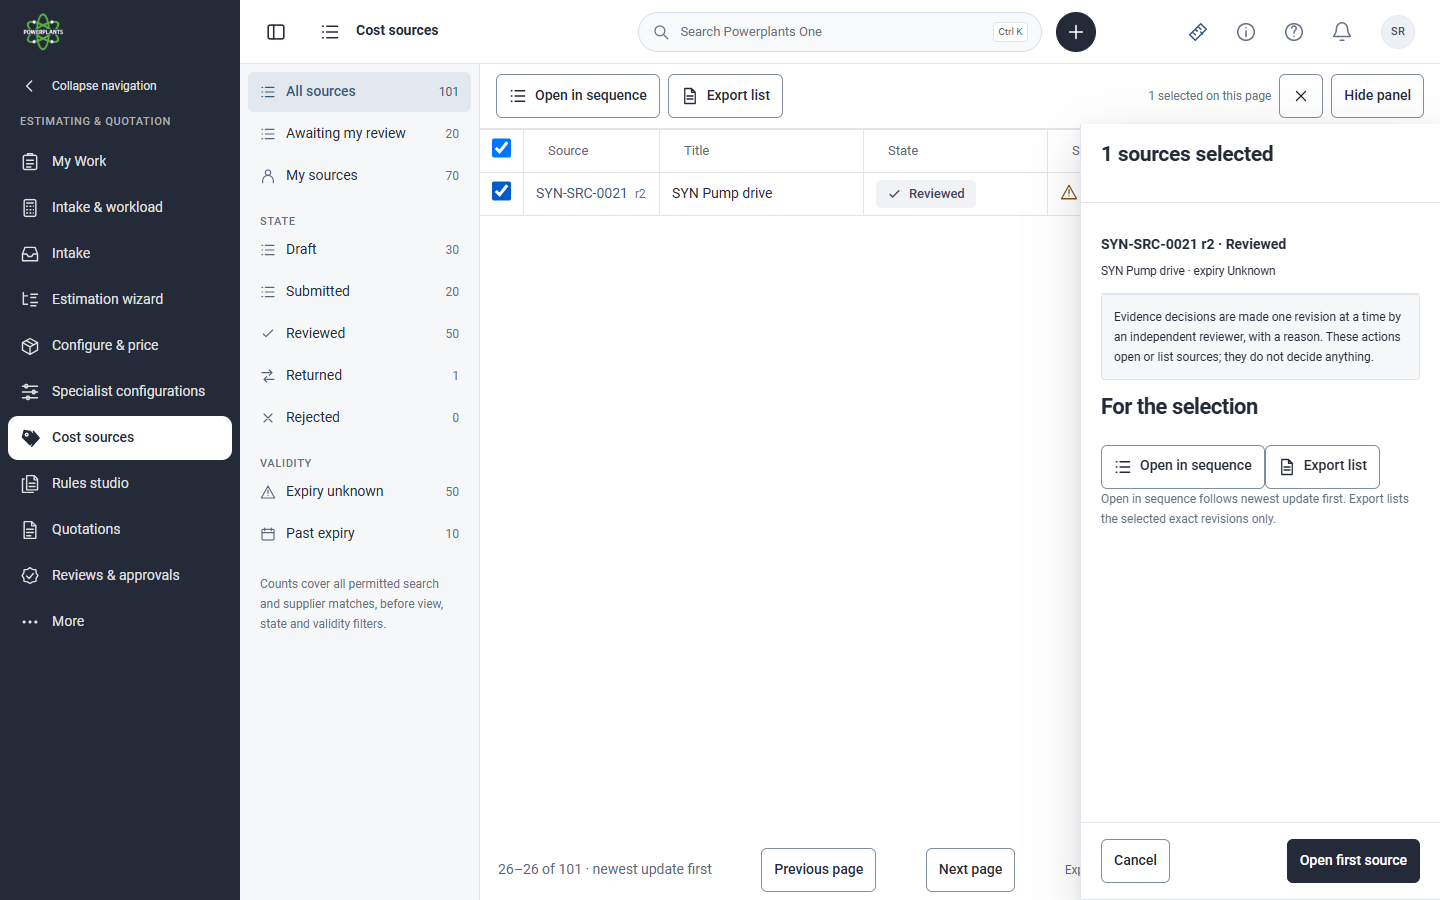
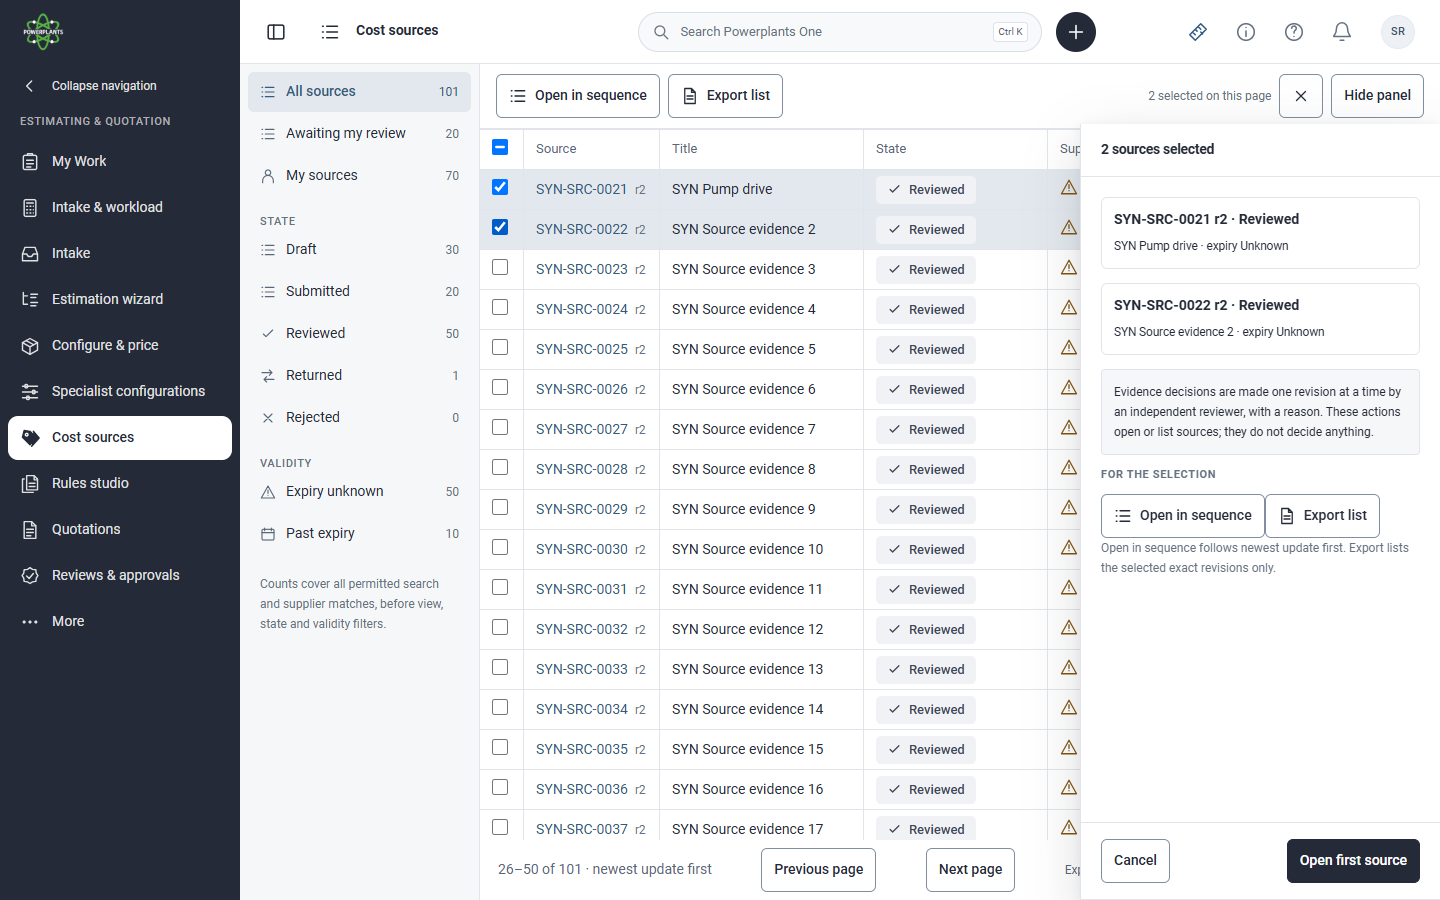
test(estimating): complete register handover and responsive proof

diff --git a/tests/browser/cost-source-register.spec.ts b/tests/browser/cost-source-register.spec.ts
@@ -75,7 +75,7 @@ test("ES03 full matching counts, exact tier, responsive list, selection and deni
         })
       : r.fulfill({
           json: {
-            items: noMatch || empty ? [] : [item],
+            items: noMatch || empty ? [] : Array.from({ length: 25 }, (_, i) => i === 0 ? item : { ...item, id: `91000000-0000-4000-8000-${String(i + 1).padStart(12, "0")}`, reference: `SYN-SRC-${String(21 + i).padStart(4, "0")}`, title: `SYN Source evidence ${i + 1}` }),
             companies: [],
             counts: {
               all: empty ? 0 : 101,
@@ -186,6 +186,13 @@ test("ES03 full matching counts, exact tier, responsive list, selection and deni
       ),
     ).toBe(true);
     await page.screenshot({ path: `${captures}/register-${width}.png` });
+    if (width <= 780) {
+      await page.locator(".cs-phone-list").evaluate(el => { el.scrollTop = el.scrollHeight; });
+      await expect(page.locator(".cs-phone-open").last()).toBeInViewport();
+      await page.screenshot({ path: `${captures}/list-end-${width}.png` });
+      await page.locator(".cs-phone-list").evaluate(el => { el.scrollTop = 0; });
+    }
+
     await page
       .locator(width > 780 ? ".cs-row-link" : ".cs-phone-open")
       .first()
@@ -228,6 +235,7 @@ test("ES03 full matching counts, exact tier, responsive list, selection and deni
   await page
     .getByRole("checkbox", { name: "Select SYN-SRC-0021", exact: true })
     .check();
+  await page.getByRole("checkbox", { name: "Select SYN-SRC-0022", exact: true }).check();
   await expect(
     page.getByRole("complementary", { name: "Selected sources" }),
   ).toBeVisible();

diff --git a/src/shell/module-workspaces.ts b/src/shell/module-workspaces.ts
@@ -18,8 +18,8 @@ export const moduleWorkspaces = [
   { route: "/equipment/instruments", moduleId: "EQ-09", scope: "ppo-equipment", layout: "padded", navigation: "workspace", baseline: "eq09-native-r01" },
   { route: "/equipment/lifecycle", moduleId: "EQ-07", scope: "ppo-equipment", layout: "padded", navigation: "workspace", baseline: "eq07-native-r01" },
   { route: "/equipment/lookup", moduleId: "EQ-02", scope: "ppo-equipment", layout: "padded", navigation: "workspace", baseline: "eq02-native-r01" },
-  { route: "/estimating/cost-sources", moduleId: "ES-03", scope: "ppo-cost-sources", layout: "full-bleed", navigation: "workspace", baseline: "es03-cost-sources-register" },
   { route: "/estimating/configurations", scope: "ppo-specialist", layout: "full-bleed", navigation: "workspace", baseline: "es08-native-r01" },
+  { route: "/estimating/cost-sources", moduleId: "ES-03", scope: "ppo-cost-sources", layout: "full-bleed", navigation: "workspace", baseline: "es03-cost-sources-register" },
   {route:"/estimating/cpq",moduleId:"ES-02",scope:"ppo-cpq",layout:"full-bleed",navigation:"workspace",baseline:"cpq-configure-implementation"},
   { route: "/estimating/discovery/[id]", scope: "ppo-estimate-wizard", layout: "full-bleed", navigation: "workspace", baseline: "es02-r01" },
   { route: "/estimating/discovery/[id]/costing", scope: "ppo-estimate-wizard", layout: "full-bleed", navigation: "workspace", baseline: "es02-costing-figma" },

diff --git a/src/components/cost-source-register.tsx b/src/components/cost-source-register.tsx
@@ -387,7 +387,7 @@ function Register({
     >
       <div className="cs-workspace">
         <h1 className="sr-only">Cost sources</h1>
-        <div className="cs-list" inert={!!snapshot && !menu.phone}>
+        <div className="cs-list" inert={!!snapshot}>
           <div className="cs-toolbar">
             {data && selected.length ? (
               <>
@@ -512,7 +512,7 @@ function Register({
             </div>
           )}
           <CostSourceReadNotice {...resource} />
-          <ErrorNotice error={actionError} />
+          <ErrorNotice error={data ? null : actionError} />
           {notice && (
             <p className="cs-notice" role="status">
               {notice}
@@ -790,7 +790,7 @@ function Register({
         {data && selected.length > 0 && panelOpen && !snapshot && (
           <aside className="cs-selection" aria-label="Selected sources">
             <header>
-              <h2>{selected.length} sources selected</h2>
+              <h2>{selected.length} {selected.length === 1 ? "source" : "sources"} selected</h2>
             </header>
             <div>
               {chosen.map((r) => (

diff --git a/src/components/cost-source-register.css b/src/components/cost-source-register.css
@@ -483,3 +483,11 @@
 @media (max-width:780px) { #ppo-cost-sources .cs-snapshot-footer { position:fixed; left:0; right:0; bottom:64px; } }
 
 @media (min-width:781px) and (max-width:1199px) { #ppo-cost-sources .cs-snapshot-activity { padding-top:48px; } }
+
+#ppo-cost-sources .ppo-register-label { height:auto; min-height:0; padding:0; }
+#ppo-cost-sources button.cs-row-link { min-height:0; height:auto; }
+#ppo-cost-sources .cs-fixed-select input[type=checkbox] { width:16px; height:16px; min-height:16px; min-width:16px; }
+#ppo-cost-sources .ppo-register-table tr[data-selected] td { background:var(--ppo-shell-selected); }
+#ppo-cost-sources .cs-selection h2 { font-size:14px; line-height:20px; margin:0; }
+#ppo-cost-sources .cs-selection h3 { font-size:11px; line-height:16px; text-transform:uppercase; letter-spacing:.66px; color:var(--muted); }
+#ppo-cost-sources .cs-selection article { border:1px solid var(--line); border-radius:6px; padding:12px; margin-bottom:14px; }

diff --git a/docs/testing/evidence/cost-source-register/workspace/README.md b/docs/testing/evidence/cost-source-register/workspace/README.md
@@ -4,12 +4,14 @@
 
 Synthetic application captures from the task-owned development server on port 3475. Browser responses are synthetic fixtures; native database and HTTP suites separately exercise the server contracts. These captures are not owner or visual acceptance.
 
-Executed: 18 focused source/model/phone-header unit tests passed; all eight existing native ES-03 database cases passed, followed by a passing author-independence regression and a passing exact-usage assertion in the saved-pricing-lineage case. All four native HTTP cases passed. The expanded synthetic browser case passed at all four widths, exercising exact snapshots/estimate links, partial usage, selection, paging, denied/stale retry, empty/no-match and phone Back/desktop Escape. Typecheck, full lint, studio and naming passed; final focused checks and corrected foundation check remain in progress.
+Executed: 22 focused source/model/phone-header/route/integration unit tests passed; all eight existing native ES-03 database cases passed, followed by a passing author-independence regression and a passing exact-usage assertion in the saved-pricing-lineage case. All four native HTTP cases passed. The expanded synthetic browser case passed at all four widths, exercising exact snapshots/estimate links, partial usage, selection, paging, denied/stale retry, empty/no-match and phone Back/desktop Escape. Both native desktop and phone register-to-source journeys passed, including exact links, URL filters, narrow/enlarged focus, stale input preservation and denied/failed evidence recovery. Typecheck, full and focused lint, studio, foundation, naming and status checks passed. Final CI and independent review remain pending.
 
-Execution corrections: sandbox Node user-info failure resolved with host access; merged lockfile dependencies installed using `npm ci --engine-strict=false`. Explicit identity readiness resolved one browser startup timeout. Tablet snapshot controls intercepted the Used in tab; the layout was corrected and the complete case passed. The stale-read fixture initially used a nested error envelope instead of the native flat envelope; corrected before the passing run. The disposable PostgreSQL reset needed `max_locks_per_transaction=4096`; the author regression then passed. Missing status front matter/body-heading issues were corrected and status checking passed. No failed application assertion is labelled unrelated.
+Execution corrections: sandbox Node user-info failure resolved with host access; merged lockfile dependencies installed using `npm ci --engine-strict=false`. Explicit identity readiness resolved one browser startup timeout. Tablet snapshot controls intercepted the Used in tab; the layout was corrected and the complete case passed. The stale-read fixture initially used a nested error envelope instead of the native flat envelope; corrected before the passing run. The disposable PostgreSQL reset needed `max_locks_per_transaction=4096`; the author regression then passed. Missing status front matter/body-heading issues were corrected and status checking passed. The native browser journey exposed loss of stale-edit recovery when editing from a pinned revision; Prepare source successor now deliberately returns to the current read, and both native viewport cases passed. The source route initially occupied the wrong alphabetical position; corrected and route/integration units passed. No failed application assertion is labelled unrelated.
 
 ## Design comparison
 
 Compared register captures at 1440, 1024, 390 and 320 pixels with the retained accepted desktop reference. Corrected menu bullets and inherited phone button layout after inspecting the first captures. Remaining adaptations: explicit minimum quantity and unit increase phone row height; current shared compact phone header replaces the older toolbar; UUID attribution is retained where no permitted name lookup exists; pagination and count-basis explanation add controls absent from the static design; date-only Updated cells retain exact timestamp in the title; supplier filtering is literal text; column settings persist only for the visit. Shared shell navigation reflects current main rather than the historical frame. The fixture omits create-company authority, so its New source button is absent by permission. Icons use permitted runtime/fallback controls, not copied Pro artwork.
 
-Inspected the register at four widths, desktop/tablet snapshots and the scrolled 320 px snapshot against retained desktop and phone references. Fixed menu bullets, phone button layout and tablet tab occlusion. Snapshot/selection capture sets are supplied for review. Loading appears while the API read is pending; a deliberately held network-loading browser case, manual screen-reader testing, full native command journeys and formal visual acceptance remain outside the completed proof. No baseline fingerprint is marked reviewed.
+Inspected the register at four widths, desktop/tablet snapshots and the scrolled 320 px snapshot against retained desktop and phone references. Fixed menu bullets, phone button layout and tablet tab occlusion. Snapshot/selection capture sets are supplied for review. Loading appears while the API read is pending; a deliberately held network-loading case and keyboard tab navigation passed. Manual screen-reader testing, the remaining native creation/review/refresh browser journeys, broader application suites and formal visual acceptance were not run or granted in this increment. No baseline fingerprint is marked reviewed.
+
+Full 25-row fixtures verify the final phone row remains visible above fixed controls at 390 and 320 px. Selection evidence uses two rows. The state badges and action controls reuse the current shared implementations; their fills/weight, action-panel presentation and the paging footer differ from the historic drawing and remain explicit visual-review items.

diff --git a/docs/contracts/estimating-cost-sources.md b/docs/contracts/estimating-cost-sources.md
@@ -41,7 +41,7 @@ Migration 0045 adds the source/revision/event/binding tables and guards, extends
 
 Unsaved inputs live in memory. A pending command uses the existing actor-bound same-tab journal with its exact bounded synthetic payload; acceptance retains only an operation pointer. A lost response displays Outcome unknown and blocks a new command. Reload reads the original receipt; explicit retry sends the same operation/payload. Unknown or inaccessible receipt is not proof of failure. The server transaction and current authority remain authoritative after application/browser/database restart.
 
-Stale source editing preserves entered fields and shows current evidence, with an explicit replace action. Comparison retains its exact previewed proposal; source/estimate changes cause a conflict rather than substitution. Failed or denied reads unmount source evidence and action forms. History links retain exact revision/version query parameters. This workflow has no offline catalogue, customer message, quote approval/issue, live ERP or SharePoint operation.
+Stale source editing preserves entered fields and shows current evidence, with an explicit replace action. Starting Prepare source successor from an exact-revision link deliberately navigates to the current native source read before editing, so later revisions retain that stale-input recovery; browsing the snapshot itself remains pinned to its selected revision. Comparison retains its exact previewed proposal; source/estimate changes cause a conflict rather than substitution. Failed or denied reads unmount source evidence and action forms. History links retain exact revision/version query parameters. This workflow has no offline catalogue, customer message, quote approval/issue, live ERP or SharePoint operation.
 
 See [delivery and executed verification](../delivery/estimating-cost-sources-handover.md) and the [architecture decision](../decisions/estimating-cost-sources-native.md).
 

diff --git a/docs/status/2026-10-31-cost-sources-register-resumed.md b/docs/status/2026-10-31-cost-sources-register-resumed.md
@@ -7,4 +7,4 @@ Date: 2026-10-31. Owner: Dean Fiedler. Scope: ES-03.
 
 PR #705 resumes its 24 October claim from preservation commit bd5feef8. Dean explicitly authorised up to ten concurrent page builds in the task chat; repository governance files are unchanged. Current main merged cleanly.
 
-The register uses full permission-scoped counts and paging, exact tiers, independent detail review eligibility and bounded exact-revision estimate usage. Shared grid, menu, snapshot and phone compositions are in development. Native pricing commands and saved lineage are unchanged. Eighteen focused unit tests, eight existing database cases plus two focused regressions, four native HTTP cases and the expanded responsive fixture browser case passed. The retained application evidence records corrections and visual differences. Final repository/native-browser checks and independent review remain pending. This is not visual or owner acceptance and no deployment is authorised.
+The register uses full permission-scoped counts and paging, exact tiers, independent detail review eligibility and bounded exact-revision estimate usage. Shared grid, menu, snapshot and phone compositions are implemented for review. Native pricing commands and saved lineage are unchanged. Twenty-two focused unit tests, eight existing database cases plus two focused regressions, four native HTTP cases and the expanded responsive fixture browser case passed. The retained application evidence records corrections and visual differences. The two native desktop/phone handover journeys and required repository checks passed. Exact-head CI and Claude review remain pending. This is not visual or owner acceptance and no deployment is authorised.
